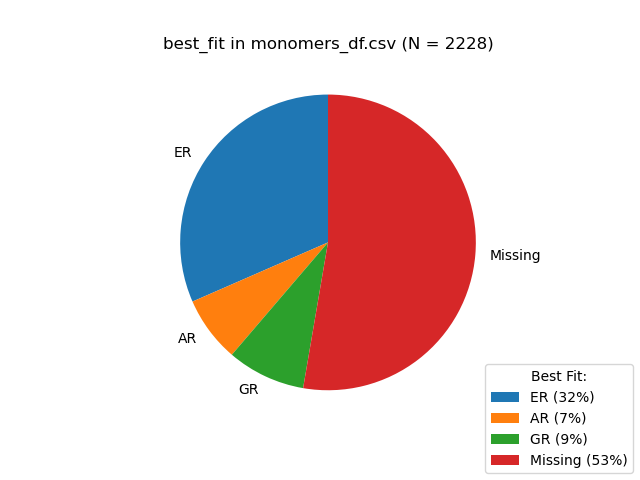
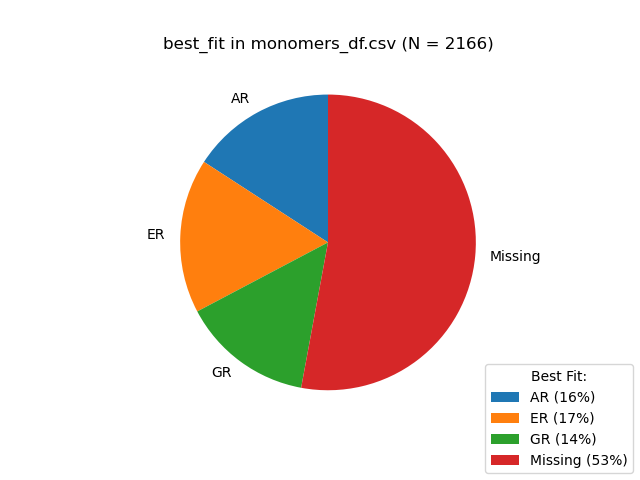
Rewriten oter heat map selection

diff --git a/scripts/faces.py b/scripts/faces.py
@@ -474,19 +474,30 @@ class ContactSurface:
         t_matrix = []
         d_t_matrix = []
         new_pairs = {}
-        res_list1 = [res for res in self.structure1.get_residues() if res.id[1] in self.outer_ids]
-        res_list2 = [res for res in self.structure2.get_residues() if res.id[1] in self.outer_ids]
+        res_list1 = [res for res in self.structure1.get_residues()]# if res.id[1] in self.outer_ids]
+        res_list2 = [res for res in self.structure2.get_residues()]# if res.id[1] in self.outer_ids]
         assert len(res_list1) == len(res_list2)
         for n, res1 in enumerate(res_list1):
+            inner1 = False
+            if res1.id[1] not in self.outer_ids:
+                inner1 = True
             for res2 in list(res_list2)[n:]:
-                p = ResPair(res1, res2)
-                new_pairs[p.id] = p
+                inner2 = False
+                if res2.id[1] not in self.outer_ids:
+                    inner2 = True
+                if inner1 or inner2:
+                    p = None
+                    dist = 666
+                else:
+                    p = ResPair(res1, res2)
+                    dist = p.dist
+                    new_pairs[p.id] = p
                 if len(t_matrix) == n:
                     t_matrix.append([None]*n+[p])
-                    d_t_matrix.append([0]*n+[p.dist])
+                    d_t_matrix.append([0]*n+[dist])
                 else:
                     t_matrix[n].append(p)
-                    d_t_matrix[n].append(p.dist)
+                    d_t_matrix[n].append(dist)
         print(len(new_pairs))
         return new_pairs, np.array(t_matrix), np.array(d_t_matrix)
 
@@ -552,8 +563,10 @@ class ContactSurface:
         return matrix, oneDmatrix
 
     @staticmethod
-    def heat_map_to_pdb(matrix, structure, inplace=False):
+    def heat_map_to_pdb(matrix, structure, inplace=False, outer_list=None):
+
         assert len(matrix) == len(list(structure.get_residues()))
+
         i = 0
         if not inplace:
             structure = structure.copy()

diff --git a/scripts/clustering.py b/scripts/clustering.py
@@ -1134,7 +1134,7 @@ def cluster_by_face(reference, FORCE_ALL=False, DIMENSIONS=3, n_clusters = 4, mi
 
 
 def generate_dihedrals_df(dimer_list = None, force = False):
-    print(root)
+    sprint("Generating dihedrals dataframe")
     root["clustering2"] = "dataframes/clustering2"
     root["dihedrals"] = "dataframes/clustering2/dihedrals"
     if force or len(os.listdir(root.dihedrals)) == 0:
@@ -1233,11 +1233,14 @@ def cluster_angles(dihedrals_path,
                    cluster_name = "angle_cluster",
                    folder="angle_clusters1",
                    split_by=None):
-
+    sprint("Clustering angles")
+    print1("Cluster name:", cluster_name)
+    print2("Cluster folder:", folder)
     dihedrals_df = pd.read_csv(dihedrals_path)
     if split_by is not None:
         clusters = set(dihedrals_df[split_by].values)
         for cluster in clusters:
+            print3("Cluster:", cluster)
             subset_df = dihedrals_df[dihedrals_df[split_by] == cluster]
             subset_df[cluster_name] = quick_cluster(subset_df[angles], bandwidth=bandwidth)
             root[folder] = "dataframes/clustering2/{}".format(folder)

diff --git a/scripts/imports.py b/scripts/imports.py
@@ -124,7 +124,7 @@ def load_single_pdb(identifier = "all", pickle_folder = None, pdb_folder = None,
             print2("No objects loaded")
         else:
             print2("Objects loaded: {}".format(objects))
-    if len(objects) == 0 and first_only:
+    if len(objects) == 1 and first_only:
         objects = objects[0]
     return objects
 
